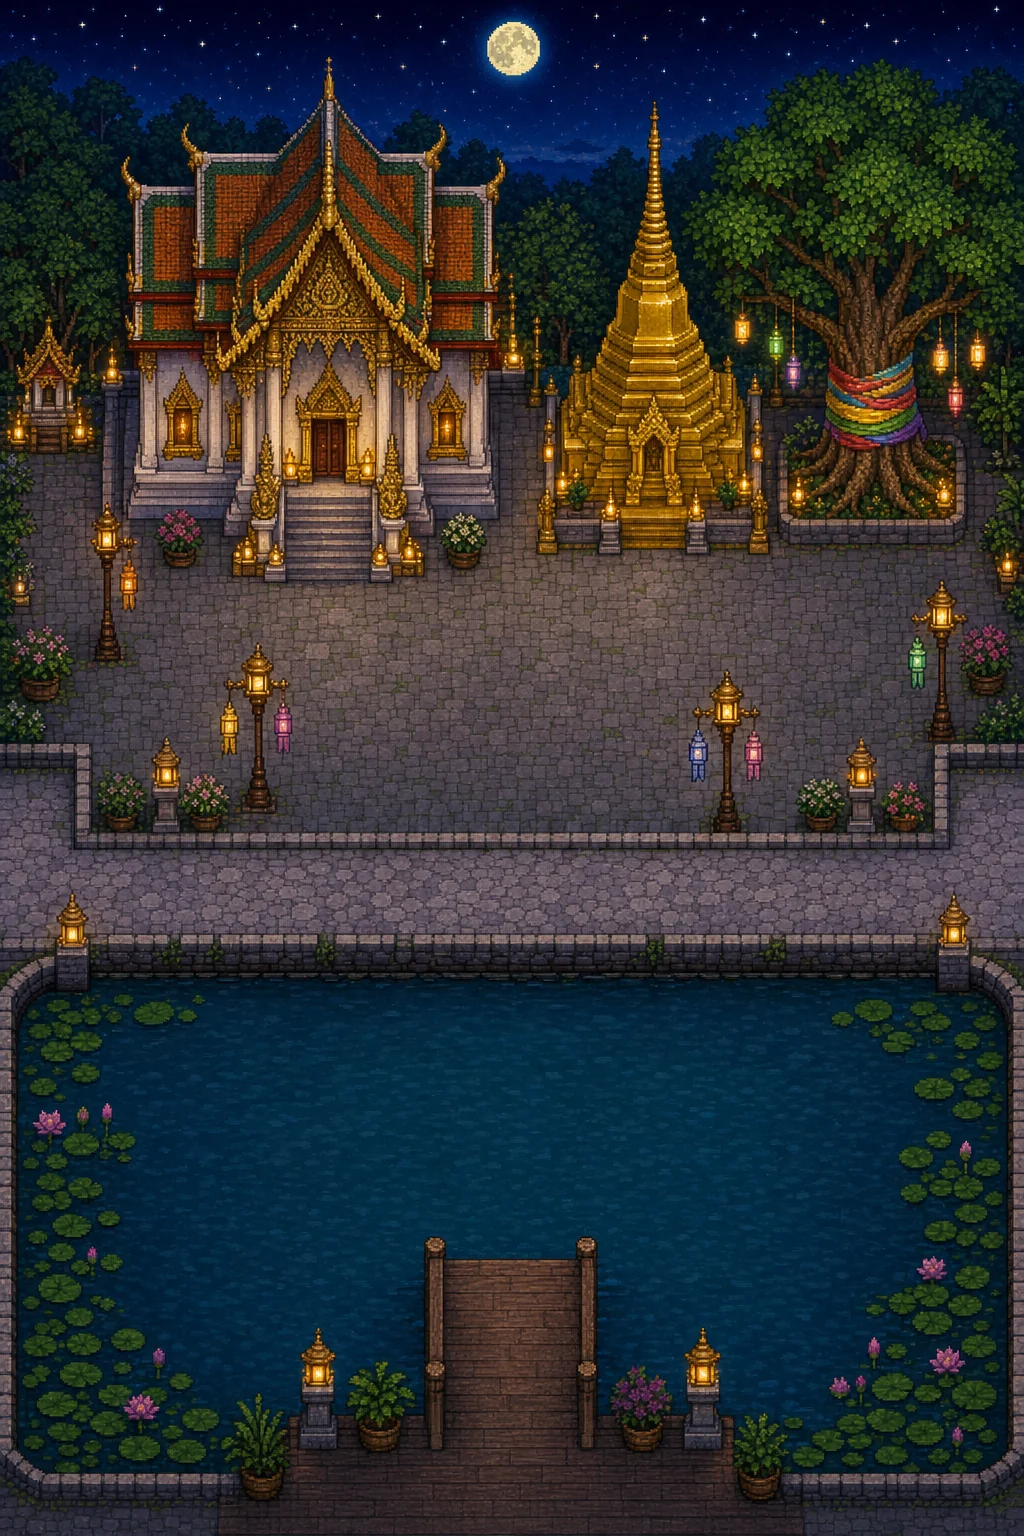
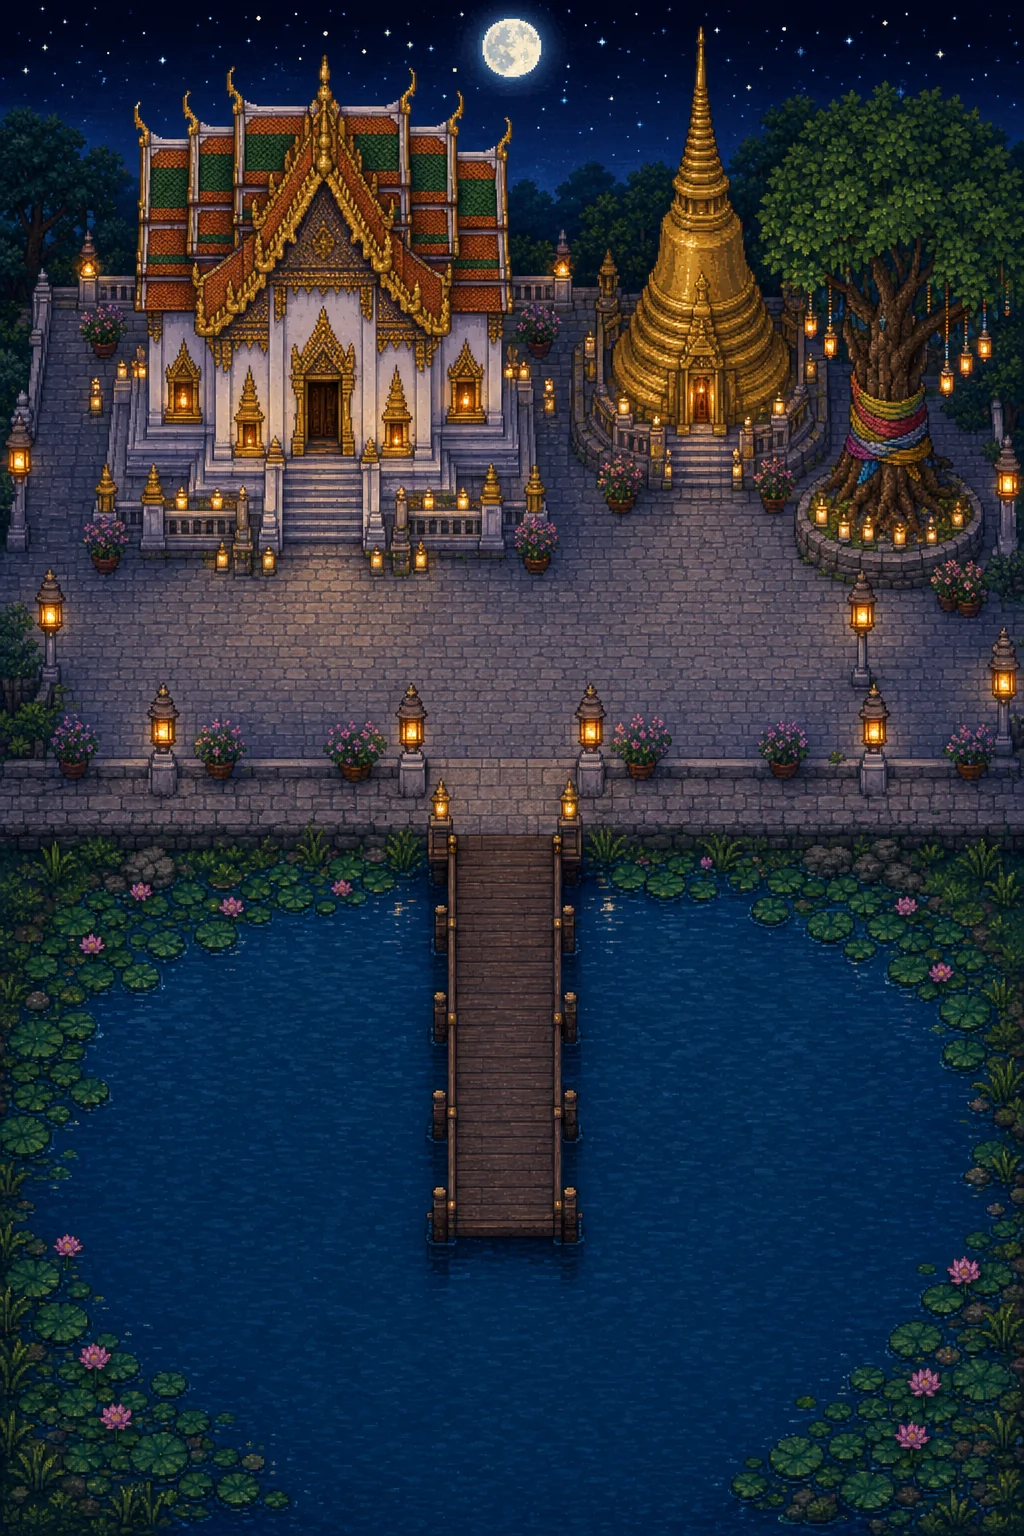
Loy Krathong: re-lay temple and bangkok scenes, fix chat bubble expiry
- temple: courtyard + edge-to-edge walkway along the pond, pier straight
  down from the walkway, drift lanes left/right of the pier; exits moved
  to the walkway row and entry points updated on both neighbours
- bangkok: teak landing deck along the Chao Phraya, pier hotspot covers
  the whole walkable pier, lanes either side of the pier plus the river
  in front of Wat Arun; regenerated both maps to match
- chat bubbles are stamped with Date.now(), so expire them on wall-clock
  time instead of the loop's rAF timestamp
- bangkok scene label: "ลอยที่เจ้าพระยา กรุงเทพฯ"

diff --git a/src/lib/loykrathong/config.ts b/src/lib/loykrathong/config.ts
@@ -74,49 +74,49 @@ export const SCENES: Record<SceneId, SceneConfig> = {
     dropLane: 0,
     exits: {
       left: { zone: { x: 0, y: 730, w: EDGE, h: 100 }, to: 'chiangmai', entry: { x: LK_MAP_W - ENTRY, y: 830 } },
-      right: { zone: { x: LK_MAP_W - EDGE, y: 495, w: EDGE, h: 80 }, to: 'temple', entry: { x: ENTRY, y: 885 } },
+      right: { zone: { x: LK_MAP_W - EDGE, y: 495, w: EDGE, h: 80 }, to: 'temple', entry: { x: ENTRY, y: 800 } },
     },
   },
   temple: {
     id: 'temple',
     mapUrl: '/game/loykrathong/temple.webp',
     walkable: [
-      { x: 60, y: 560, w: 900, h: 280 }, // courtyard
-      { x: 0, y: 830, w: 1024, h: 120 }, // walkway with the left/right exits
-      { x: 0, y: 830, w: 54, h: 706 }, // west walk around the pond
-      { x: 970, y: 830, w: 54, h: 706 }, // east walk around the pond
-      { x: 0, y: 1440, w: 1024, h: 96 }, // south walk
-      { x: 440, y: 1250, w: 160, h: 220 }, // the pier (entered from the south walk)
+      { x: 20, y: 560, w: 980, h: 200 }, // courtyard between the lamp posts
+      { x: 0, y: 760, w: 1024, h: 80 }, // the walkway along the pond, edge to edge (exits at both ends)
+      { x: 445, y: 830, w: 130, h: 420 }, // the pier, straight down from the walkway
     ],
-    pier: { x: 440, y: 1250, w: 160, h: 110 },
-    spawn: { x: 512, y: 700 },
-    drop: { x: 512, y: 1190 },
-    lanes: [{ x: -90, y: 1000, w: 1200, h: 200 }],
+    pier: { x: 445, y: 1080, w: 130, h: 170 },
+    spawn: { x: 512, y: 650 },
+    drop: { x: 420, y: 1240 },
+    lanes: [
+      { x: -90, y: 900, w: 520, h: 560 }, // pond left of the pier
+      { x: 590, y: 900, w: 520, h: 560 }, // pond right of the pier
+    ],
     dropLane: 0,
     exits: {
-      left: { zone: { x: 0, y: 840, w: EDGE, h: 100 }, to: 'village', entry: { x: LK_MAP_W - ENTRY, y: 535 } },
-      right: { zone: { x: LK_MAP_W - EDGE, y: 840, w: EDGE, h: 100 }, to: 'bangkok', entry: { x: ENTRY, y: 790 } },
+      left: { zone: { x: 0, y: 765, w: EDGE, h: 75 }, to: 'village', entry: { x: LK_MAP_W - ENTRY, y: 535 } },
+      right: { zone: { x: LK_MAP_W - EDGE, y: 765, w: EDGE, h: 75 }, to: 'bangkok', entry: { x: ENTRY, y: 980 } },
     },
   },
   bangkok: {
     id: 'bangkok',
     mapUrl: '/game/loykrathong/bangkok.webp',
     walkable: [
-      { x: 0, y: 740, w: 1024, h: 100 }, // promenade
-      { x: 445, y: 835, w: 140, h: 240 }, // pier walkway
-      { x: 400, y: 1050, w: 230, h: 400 }, // pier platform
+      { x: 0, y: 925, w: 1024, h: 110 }, // teak landing deck along the Chao Phraya (exits at both ends)
+      { x: 445, y: 1035, w: 140, h: 470 }, // the pier
     ],
-    pier: { x: 400, y: 1250, w: 230, h: 200 },
-    spawn: { x: 512, y: 790 },
-    drop: { x: 512, y: 1492 },
+    pier: { x: 445, y: 1300, w: 140, h: 205 }, // reaches the walkable tip of the pier
+    spawn: { x: 512, y: 980 },
+    drop: { x: 415, y: 1470 },
     lanes: [
-      { x: -90, y: 360, w: 1200, h: 200 }, // the wide river in front of Wat Arun
-      { x: -90, y: 1472, w: 1200, h: 40 }, // the strip below the pier tip
+      { x: -90, y: 1080, w: 520, h: 420 }, // water left of the pier
+      { x: 600, y: 1080, w: 510, h: 420 }, // water right of the pier
+      { x: -90, y: 380, w: 1200, h: 160 }, // the wide river in front of Wat Arun
     ],
-    dropLane: 1,
+    dropLane: 0,
     exits: {
-      left: { zone: { x: 0, y: 745, w: EDGE, h: 90 }, to: 'temple', entry: { x: LK_MAP_W - ENTRY, y: 885 } },
-      right: { zone: { x: LK_MAP_W - EDGE, y: 745, w: EDGE, h: 90 }, to: 'chiangmai', entry: { x: ENTRY, y: 830 } },
+      left: { zone: { x: 0, y: 930, w: EDGE, h: 100 }, to: 'temple', entry: { x: LK_MAP_W - ENTRY, y: 800 } },
+      right: { zone: { x: LK_MAP_W - EDGE, y: 930, w: EDGE, h: 100 }, to: 'chiangmai', entry: { x: ENTRY, y: 830 } },
     },
   },
   chiangmai: {
@@ -136,7 +136,7 @@ export const SCENES: Record<SceneId, SceneConfig> = {
     ],
     dropLane: 0,
     exits: {
-      left: { zone: { x: 0, y: 780, w: EDGE, h: 110 }, to: 'bangkok', entry: { x: LK_MAP_W - ENTRY, y: 790 } },
+      left: { zone: { x: 0, y: 780, w: EDGE, h: 110 }, to: 'bangkok', entry: { x: LK_MAP_W - ENTRY, y: 980 } },
       right: { zone: { x: LK_MAP_W - EDGE, y: 780, w: EDGE, h: 110 }, to: 'village', entry: { x: ENTRY, y: 775 } },
     },
   },

diff --git a/src/components/loykrathong/LoyKrathongGame.tsx b/src/components/loykrathong/LoyKrathongGame.tsx
@@ -360,9 +360,10 @@ export default function LoyKrathongGame() {
             o.y = Math.max(0, Math.min(LK_MAP_H, o.y + o.vy * dt));
           }
         }
-        if (o.bubble && o.bubble.until < now) o.bubble = null;
+        // Bubbles expire on wall-clock time (they are stamped with Date.now()).
+        if (o.bubble && o.bubble.until < Date.now()) o.bubble = null;
       }
-      if (myBubble.current && myBubble.current.until < now) myBubble.current = null;
+      if (myBubble.current && myBubble.current.until < Date.now()) myBubble.current = null;
 
       // river
       for (const f of floatsRef.current) {
